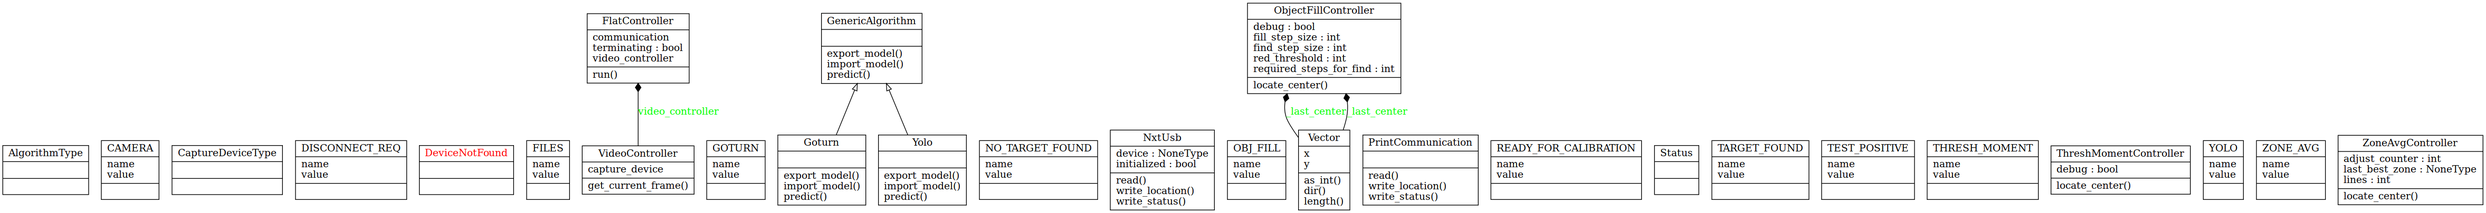
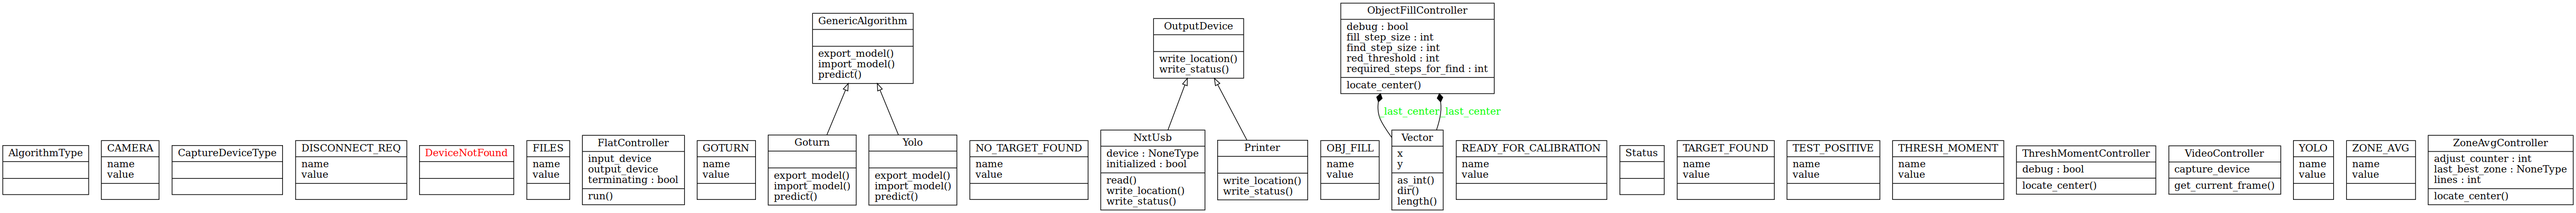
?

diff --git a/report/5.Solution/0.SolutionCtrl.tex b/report/5.Solution/0.SolutionCtrl.tex
@@ -7,6 +7,7 @@ The specific parts of the solution have been hand picked, based on relevance to 
 % Forstår ikke helt det med complexity? tror vi skal passe på det ikke bliver misforstået.
 
 The complete documentation and source-code for the project can be found on our GitHub Repository: \url{https://github.com/aau-hcl-p5/main}
+\input{5.Solution/StructureCodebase}
 \input{5.Solution/Object_Detection}
 \input{5.Solution/MI_solution}
 %\input{5.Solution/CrossPlatformCommunication.tex}

diff --git a/code/object_detector/output_devices/nxt_usb.py b/code/object_detector/output_devices/nxt_usb.py
@@ -7,7 +7,8 @@ import usb.core
 import usb.util
 
 from algorithms import Vector
-from output_devices.status import Status
+from .output_device import OutputDevice
+from .status import Status
 
 ID_VENDOR_LEGO = 0x0694
 ID_PRODUCT_NXT = 0x0002
@@ -20,7 +21,7 @@ class DeviceNotFound(Exception):
     pass
 
 
-class NxtUsb:
+class NxtUsb(OutputDevice):
     """
     Used for USB output_devices with the NXT
     """

diff --git a/report/main.tex b/report/main.tex
@@ -19,9 +19,9 @@
 \input{7.MetaProject/0.MetaProjectCtrl}
 
 \begingroup
-  \raggedright
-  %\bibliographystyle{bibtex/harvard}
-  \bibliography{bibtex/litteratur}
+\raggedright
+%\bibliographystyle{bibtex/harvard}
+\bibliography{bibtex/litteratur}
 \endgroup
 \cleardoublepage
 

diff --git a/report/5.Solution/StructureCodebase.tex b/report/5.Solution/StructureCodebase.tex
@@ -110,4 +110,3 @@ This file is not manually run, so less can be set about the overall principles o
 
 Each of these files and modules will be explained in-depth throughout this chapter, and explain value of each.
 
-\

diff --git a/code/object_detector/output_devices/output_device.py b/code/object_detector/output_devices/output_device.py
@@ -1,5 +1,3 @@
-from typing import List
-
 from algorithms import Vector
 from .status import Status
 
